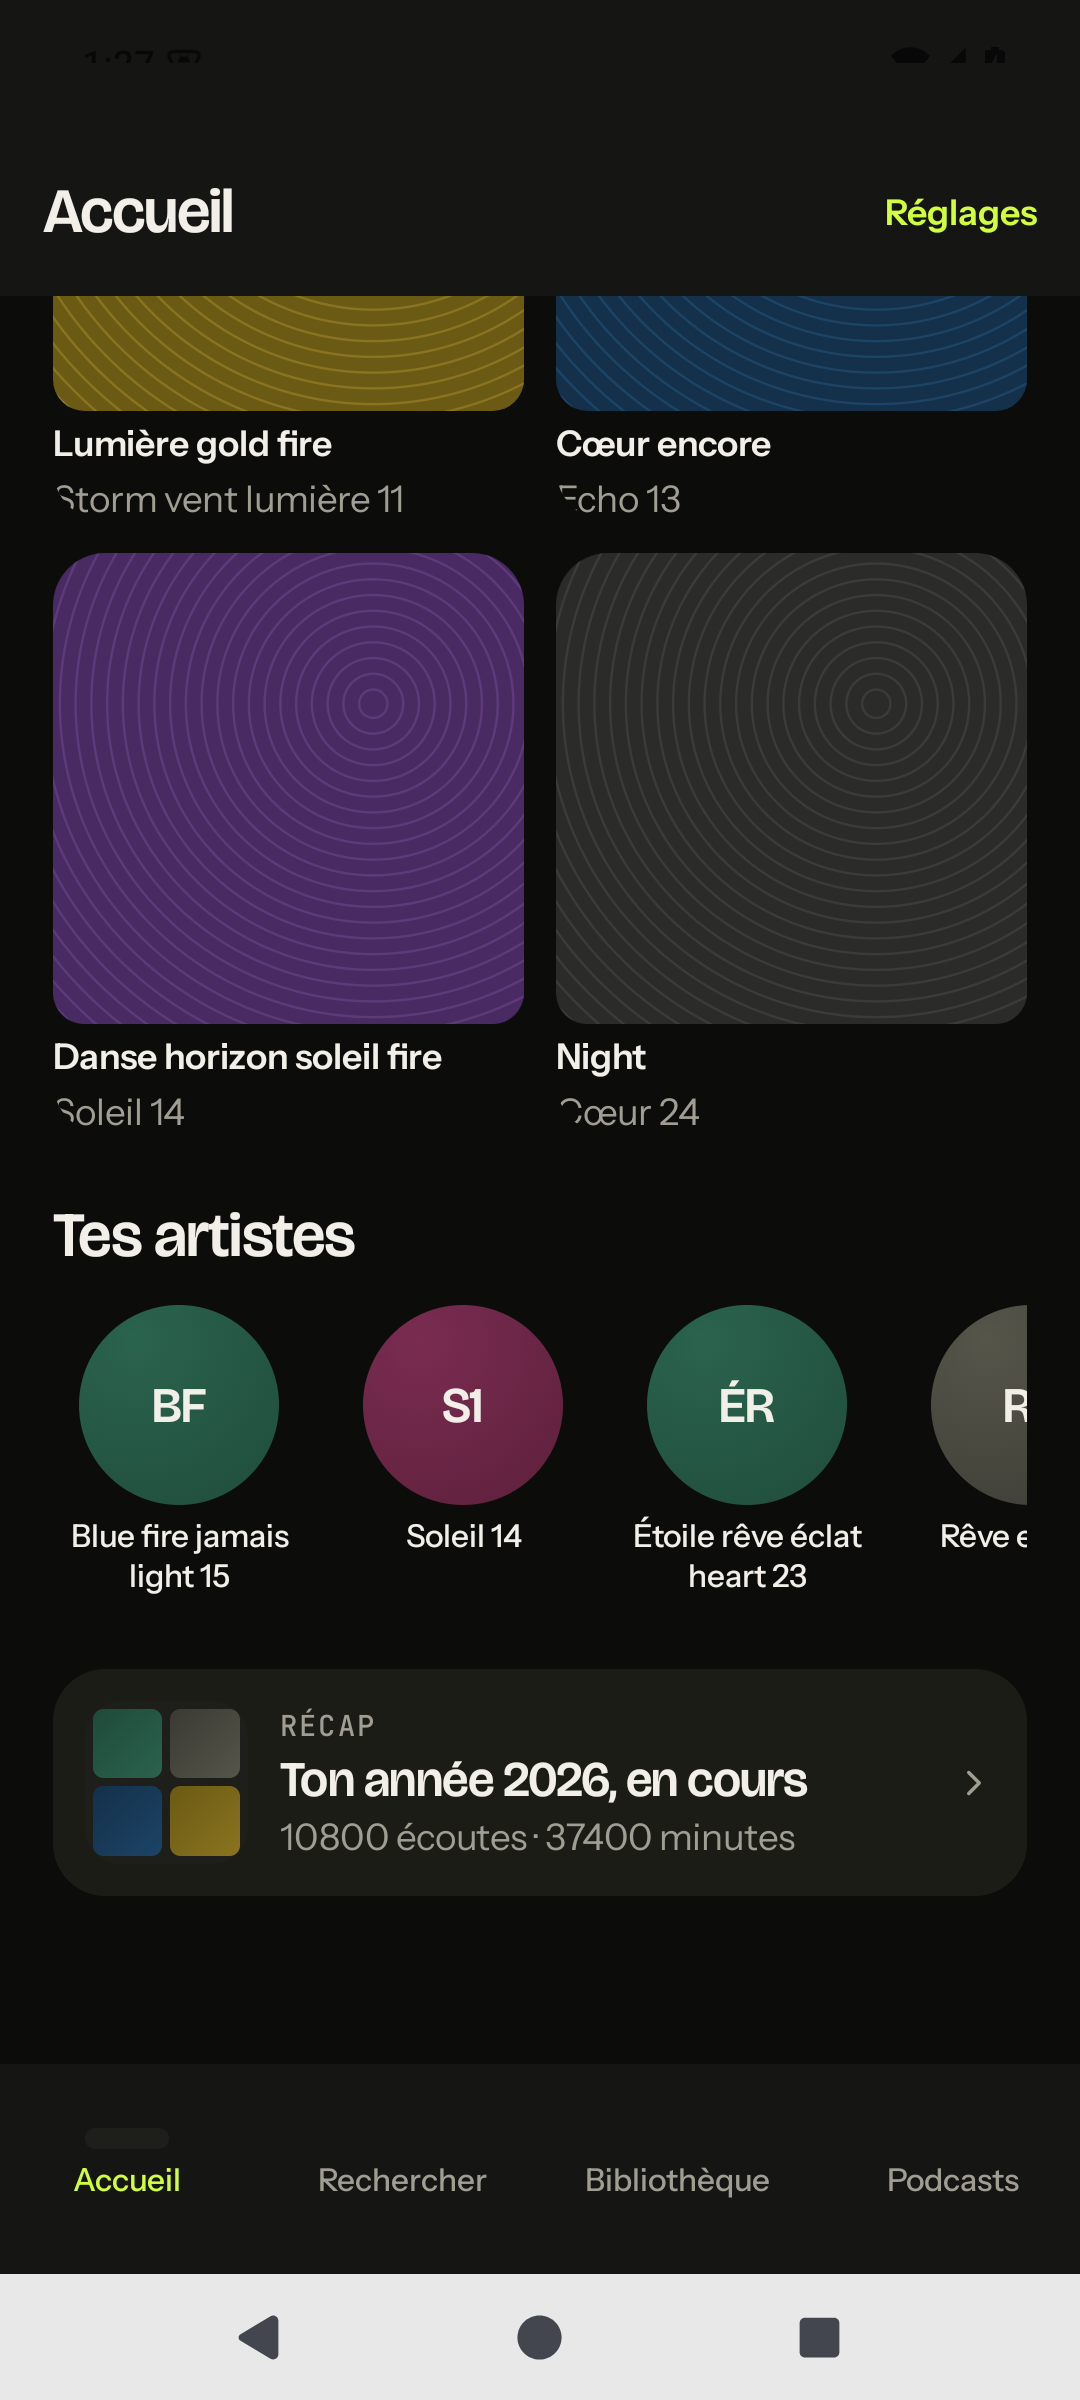
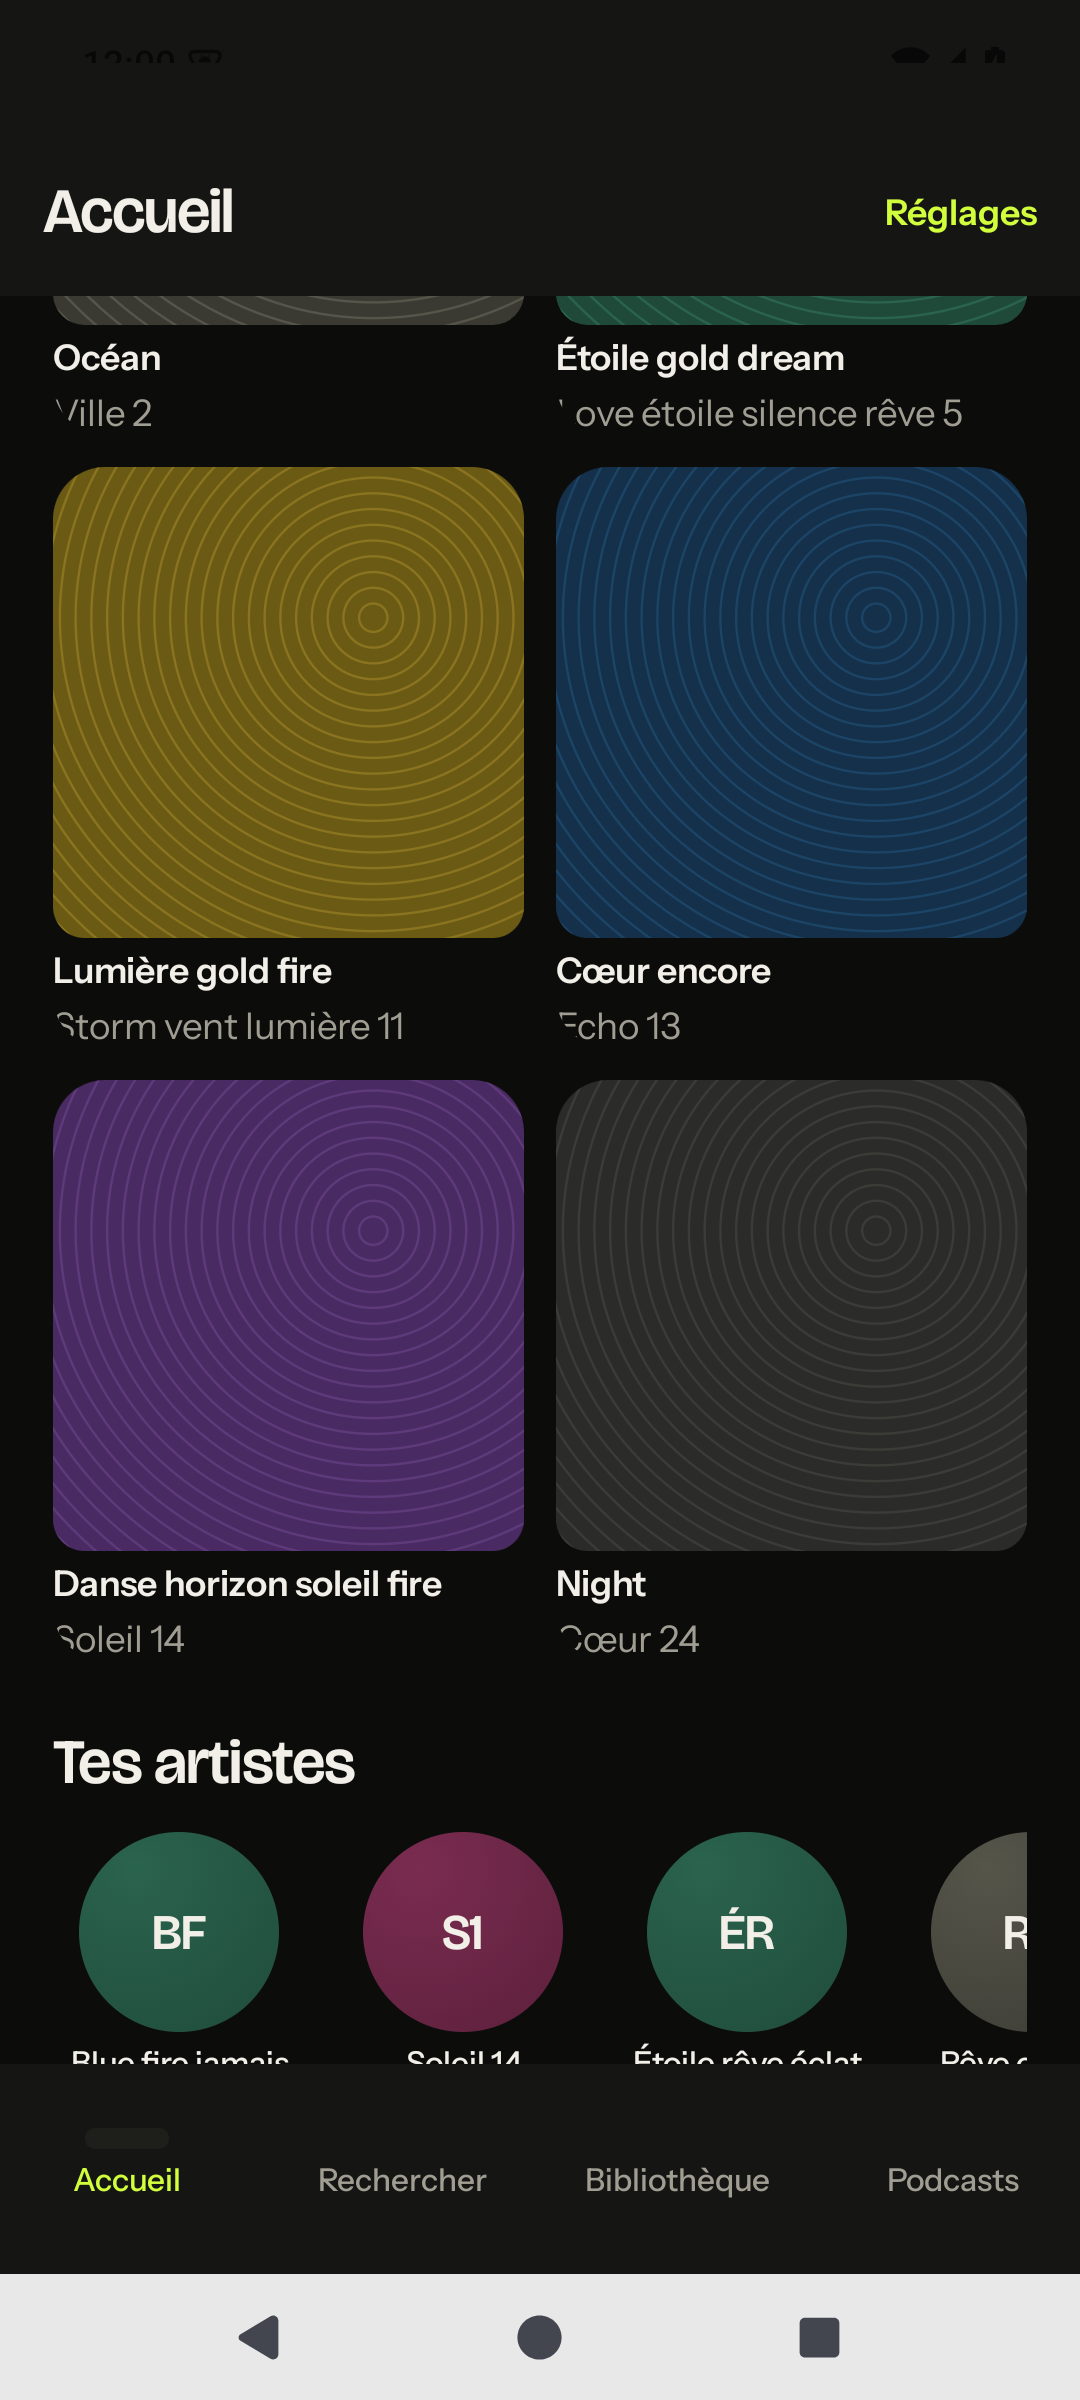
feat(mobile): MB5 a stable marker for the home, and the smoke reads it
The emulator smoke's Accueil door waited for the MB0 stub's sentence, which
this lot removed when it filled the screen. The home now carries ONE fixed
`contentDescription` on its root — « Accueil Neezer », `HOME_MARKER` — present
in every state (hero, skeletons, a failed load with no server) and independent
of the clock, and `mobile/tools/ci-emulator.sh` waits for it (the line is
declared out of the lot's list and was authorised by the orchestrator).

Why a literal and not a sentence: the greeting above the hero names the weekday
(and the person), so a needle taken from it fails in the evening or on another
account. Measured on a FRESH install with no server, at two clock settings —
09:10 Wednesday gives the marker, « BONJOUR · MERCREDI », « Quelle énergie ce
matin ? » and the failure card; 22:30 Thursday gives the SAME marker and page
with the greeting changed to « BONJOUR · JEUDI ».

The hero is also drawn in every state now, like `Home.svelte` (HomeHero sits
above the sections, never inside them): the day's decision is the page, and a
section that failed is a block below it. Sizes re-measured from PR #309's
static C++ link: arm64 9 587 912 B, v7a 6 517 224, x86_64 11 506 576, NEEDED
the system's alone.

diff --git a/mobile/android/feature/home/src/main/java/fr/neezer/mobile/feature/home/HomeScreen.kt b/mobile/android/feature/home/src/main/java/fr/neezer/mobile/feature/home/HomeScreen.kt
@@ -140,19 +140,35 @@ fun HomeScreen(
     Column(
         modifier = modifier
             .fillMaxWidth()
+            // The screen's own marker, for the smoke (`mobile/tools/ci-emulator.sh`)
+            // and for TalkBack: present in EVERY state — hero, skeletons, a
+            // failed load — and independent of the clock. `HomeHero`'s greeting
+            // names the weekday and the person, so it can never be a stable
+            // needle; this can (`Home.svelte`'s masthead, "Quelle énergie ce
+            // matin ?", is fixed copy but reads like a time of day).
+            .semantics { contentDescription = HOME_MARKER }
             .padding(horizontal = NzSpacing.pageX, vertical = NzSpacing.l),
         verticalArrangement = Arrangement.spacedBy(NzSpacing.xl),
     ) {
+        // The hero is drawn in EVERY state, like `Home.svelte` (HomeHero sits
+        // above the sections, never inside them): the day's one decision is the
+        // page, and a section that failed is a block below it, not a screen that
+        // replaces it.
+        HomeHero(state, actions)
+        if (state.tuneOpen) TunePanel(state, actions)
+
         val data = state.data
         when (val screen = state.screen) {
-            is fr.neezer.mobile.bridge.ScreenState.Failed -> LoadFailed(
-                cause = screen.cause,
-                onRetry = { actions.retry() },
-                title = "L'accueil n'a pas pu se charger",
-            )
+            is fr.neezer.mobile.bridge.ScreenState.Failed -> {
+                LoadFailed(
+                    cause = screen.cause,
+                    onRetry = { actions.retry() },
+                    title = "L'accueil n'a pas pu se charger",
+                )
+                StylePicker(state, actions)
+                FlowControls(state, actions)
+            }
             else -> {
-                HomeHero(state, actions)
-                if (state.tuneOpen) TunePanel(state, actions)
                 if (data == null) {
                     // First paint with nothing yet: a shelf and a list, never an
                     // empty page (Skeleton.svelte's rule).
@@ -1152,6 +1168,15 @@ private fun EmptyHome(state: HomeModel.State, actions: HomeActions) {
 }
 
 // -- small helpers ------------------------------------------------------------
+
+/**
+ * What the home is called, for the headless smoke and for a screen reader: one
+ * fixed string, never a greeting. It is a CONTRACT with
+ * `mobile/tools/ci-emulator.sh`, which taps the Accueil tab and then waits for
+ * this node, and with every later lot that changes what the home draws: keep it
+ * on the root.
+ */
+const val HOME_MARKER = "Accueil Neezer"
 
 /** `flow.js#PICK_AHEAD`, in the sentence `FlowUpNext` writes. */
 private const val PICK_AHEAD_S = 20

diff --git a/docs/agents/mobile.md b/docs/agents/mobile.md
@@ -2184,12 +2184,25 @@ SPA keeps in `lib/flow.js` and `lib/discovery.js`.
   « Tes artistes », the Récap card « Ton année 2026, en cours · 10 800 écoutes ·
   37 400 minutes »). The window captures are cropped to their content, so the
   PNG is the page and not an empty display.
-- **Sizes**: `libnz_ffi.so` arm64-v8a **9 532 216 B**, armeabi-v7a 6 480 080 B,
-  x86_64 11 446 472 B (MB4: 6 356 480 / 4 413 880 / 6 925 840 — the +3.2 MB on
-  arm64 is the analysis/playback stack MB3b linked, not this lot's 24 records).
-  Debug APK 44 495 317 B before the libc++ workaround, 71 539 055 B with the
-  NDK's `libc++_shared.so` dropped in by hand for the screenshot (nothing
-  committed: `build-android.sh` belongs to MB3c's fix, PR #309).
+- **The screen's marker, a contract**: the home's root carries
+  `contentDescription = "Accueil Neezer"` (`HomeScreen.kt#HOME_MARKER`), in EVERY
+  state — hero, skeletons, a failed load with no server — and independent of the
+  clock. `mobile/tools/ci-emulator.sh` waits for that node after tapping
+  Accueil, instead of the MB0 stub's sentence which this lot removed. Measured
+  on a FRESH install with no server, at two clock settings: 09:10 Wednesday
+  gives `content-desc="Accueil Neezer"`, « BONJOUR · MERCREDI »,
+  « Quelle énergie ce matin ? », « L'accueil n'a pas pu se charger » and
+  « Réessayer »; 22:30 Thursday gives the SAME marker, the SAME page and a
+  greeting that changed to « BONJOUR · JEUDI ». A needle taken from the greeting
+  or from the masthead's « ce matin » would therefore be a clock in disguise
+  (the SPA keeps that copy fixed — the weekday above it is the real date), which
+  is why the marker is a literal and not a sentence.
+- **Sizes**: `libnz_ffi.so` arm64-v8a **9 587 912 B**, armeabi-v7a 6 517 224 B,
+  x86_64 11 506 576 B, and their `NEEDED` list is the system's alone
+  (`libdl liblog libm libc`) — PR #309's static C++ link, which this lot's
+  screen rebuilds and runs. MB4 was 6 356 480 / 4 413 880 / 6 925 840; the
+  +3.2 MB on arm64 is the analysis/playback stack MB3b linked, not this lot's
+  records.
 
 **Rules a measurement taught** (each cost a wrong build or a silent extra
 request):
